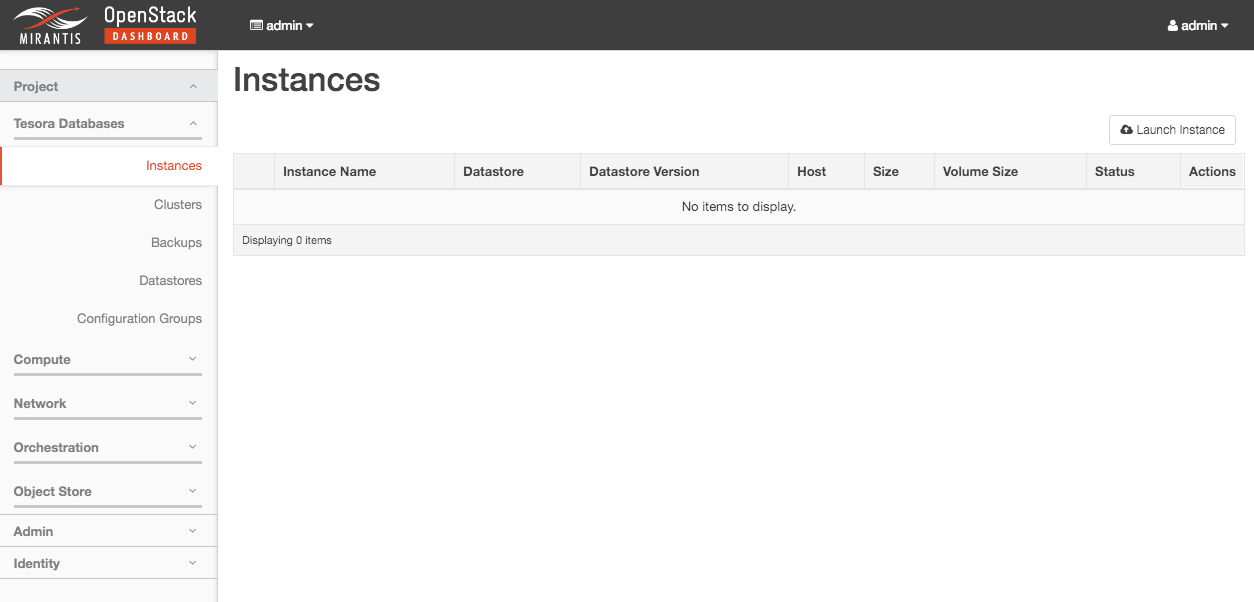
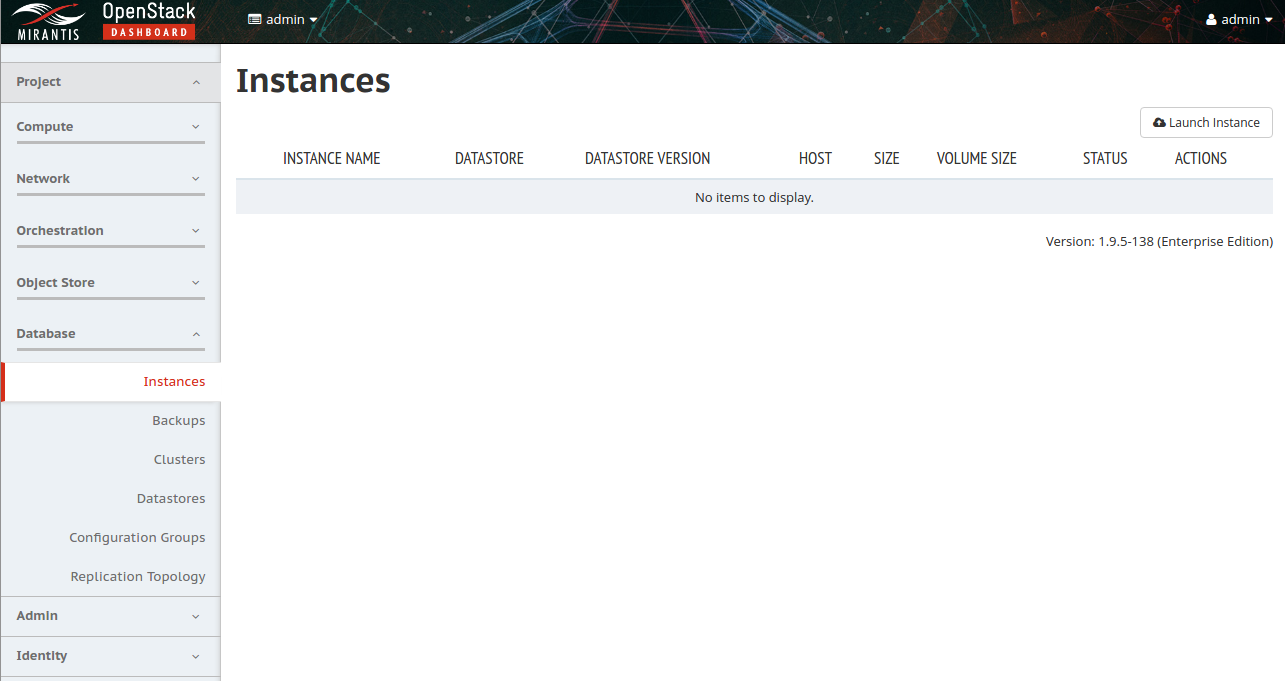
update user guide for 1.9.5
All the things for 1.9 user doc.
Update version numbers
Include new add-datastore.sh output
All new screenshots for fuel 9.0 and Tesora DBaaS

diff --git a/docs/guide/source/conf.py b/docs/guide/source/conf.py
@@ -55,9 +55,9 @@ copyright = u'2016, Tesora, Inc.'
 # built documents.
 #
 # The short X.Y version.
-version = '1.9.0'
+version = '1.9.5'
 # The full version, including alpha/beta/rc tags.
-release = '1.9-1.9.0-1'
+release = '1.9-1.9.5-1'
 
 # The language for content autogenerated by Sphinx. Refer to documentation
 # for a list of supported languages.

diff --git a/docs/guide/source/tesora-dbaas-guide.rst b/docs/guide/source/tesora-dbaas-guide.rst
@@ -1,5 +1,5 @@
 **********************************************************************
-Guide to the Tesora DBaaS Platform Plugin version 1.9-1.9.0-1 for Fuel
+Guide to the Tesora DBaaS Platform Plugin version 1.9-1.9.5-1 for Fuel
 **********************************************************************
 
 This document provides instructions for installing, configuring and using
@@ -34,7 +34,7 @@ Requirements
 ===============================  ===============
 Requirement                      Version/Comment
 ===============================  ===============
-Fuel                             8.0
+Fuel                             9.0
 ===============================  ===============
 
 Pre-requisites
@@ -66,21 +66,21 @@ To install the Tesora DBaaS Platform Fuel plugin, follow these steps:
 #. Copy the plugin to an already installed
    `Fuel Master node <http://docs.openstack.org/developer/fuel-docs/userdocs/fuel-install-guide/install_install_fuel.html>`_::
 
-   # scp fuel-plugin-tesora-dbaas-1.9-1.9.0-1.noarch.rpm root@:/\<fuel master node IP>:/tmp
+   # scp fuel-plugin-tesora-dbaas-1.9-1.9.5-1.noarch.rpm root@:/\<fuel master node IP>:/tmp
 
 #. Log into the Fuel Master node.
 
 #. Install the plugin::
 
      # cd /tmp
-     # fuel plugins --install fuel-plugin-tesora-dbaas-1.9-1.9.0-1.noarch.rpm
+     # fuel plugins --install fuel-plugin-tesora-dbaas-1.9-1.9.5-1.noarch.rpm
 
 #. Check if the plugin was installed successfully::
 
      # fuel plugins
      id | name                     | version | package_version
      ---|--------------------------|---------|----------------
-     1  | fuel-plugin-tesora-dbaas | 1.9.0   | 4.0.0
+     1  | fuel-plugin-tesora-dbaas | 1.9.5   | 4.0.0
 
 #. Create a new Fuel environment using the Fuel UI Wizard.
 
@@ -108,7 +108,7 @@ To install the Tesora DBaaS Platform Fuel plugin, follow these steps:
 #. Perform network validation on your new fuel environment.
 
 #. Deploy your Fuel environment containing the Tesora DBaaS Platform.
-   Once provisioned launch Horizon. You should see additional screens in Horizon for Tesora Databases:
+   Once provisioned launch Horizon. You should see additional screens in Horizon for Database:
 
    .. image:: figures/horizon-tesora.png
       :width: 75%
@@ -142,86 +142,93 @@ To install a datastore for say `mysql 5.6`, follow these steps:
    ::
 
      # ./add-datastore.sh mysql 5.6
-
-     Installing guest 'tesora-ubuntu-trusty-mysql-5.6-EE-1.9'
-
+     
+     Add datastore mysql 5.6 to Tesora DBaaS
+     
+     Selecting guest based on platform, command line args and environment variables:
+         Platform OS              ubuntu
+         Guest OS                 ubuntu
+         Tesora DBaaS Release     enterprise
+         Tesora DBaaS Version     1.9
+         Tesora DBaaS Repository  main
+     
+     Checking connectivity to Glance service
+     
+     Guest name determined as 'tesora-ubuntu-trusty-mysql-5.6-EE-1.9'
+     
+     
      Downloading guest 'tesora-ubuntu-trusty-mysql-5.6-EE-1.9.guest'
-     --2016-04-07 19:38:22--  ftp://enterprise19:*password*@ftp.tesora.com/main/ubuntu\
-     /tesora-ubuntu-trusty-mysql-5.6-EE-1.9.guest
-                => ‘/tmp/tmp.D8MAY4AlsW’
+     --2016-11-01 15:10:07--  ftp://enterprise19:*password*@ftp.tesora.com/main/ubuntu/tesora-ubuntu-trusty-mysql-5.6-EE-1.9.guest
+                => ‘/tmp/tmp.PwTR8Ov3Cs’
      Resolving ftp.tesora.com (ftp.tesora.com)... 199.182.122.232
      Connecting to ftp.tesora.com (ftp.tesora.com)|199.182.122.232|:21... connected.
      Logging in as enterprise19 ... Logged in!
      ==> SYST ... done.    ==> PWD ... done.
      ==> TYPE I ... done.  ==> CWD (1) /main/ubuntu ... done.
-     ==> SIZE tesora-ubuntu-trusty-mysql-5.6-EE-1.9.guest ... 510402560
-     ==> PASV ... done.    ==> RETR tesora-ubuntu-trusty-mysql-5.6-EE-1.9.guest ... \
-     done.
-     Length: 510402560 (487M) (unauthoritative)
-
-     100%[=============================================>] 510,402,560 4.14MB/s   in 98s
-
-     2016-04-07 19:40:00 (4.95 MB/s) - ‘/tmp/tmp.D8MAY4AlsW’ saved [510402560]
-
-     Moving guest '/tmp/tmp.D8MAY4AlsW' into guest cache
-     Uploading guest 'tesora-ubuntu-trusty-mysql-5.6-EE-1.9-86' to Glance
-     +---------------------------+------------------------------------------+
-     | Property                  | Value                                    |
-     +---------------------------+------------------------------------------+
-     | checksum                  | 1c3f5610863e30dd3d11deddd5be1eca         |
-     | container_format          | bare                                     |
-     | created_at                | 2016-04-07T19:40:05Z                     |
-     | disk_format               | qcow2                                    |
-     | id                        | dfff7c84-136e-4889-b772-e690c23c8686     |
-     | min_disk                  | 0                                        |
-     | min_ram                   | 0                                        |
-     | name                      | tesora-ubuntu-trusty-mysql-5.6-EE-1.9-86 |
-     | owner                     | 189b882e615b4ac998fc7fe7ddf25b79         |
-     | protected                 | False                                    |
-     | size                      | 510328832                                |
-     | status                    | active                                   |
-     | tags                      | []                                       |
-     | tesora-agent-build        | 130                                      |
-     | tesora-agent-full-version | 1.9.0                                    |
-     | tesora-agent-version      | 1.9                                      |
-     | tesora-database           | mysql                                    |
-     | tesora-database-version   | 5.6                                      |
-     | tesora-edition            | enterprise                               |
-     | tesora-edition-short      | EE                                       |
-     | tesora-guest-image-build  | 86                                       |
-     | tesora-os-distro          | ubuntu                                   |
-     | tesora-os-distro-version  | trusty                                   |
-     | tesora-repository         | main                                     |
-     | updated_at                | 2016-04-07T19:40:51Z                     |
-     | virtual_size              | None                                     |
-     | visibility                | public                                   |
-     +---------------------------+------------------------------------------+
-     Guest 'tesora-ubuntu-trusty-mysql-5.6-EE-1.9-86 uploaded to Glance with ID \
-     'dfff7c84-136e-4889-b772-e690c23c8686'
-
+     ==> SIZE tesora-ubuntu-trusty-mysql-5.6-EE-1.9.guest ... 502609920
+     ==> PASV ... done.    ==> RETR tesora-ubuntu-trusty-mysql-5.6-EE-1.9.guest ... done.
+     Length: 502609920 (479M) (unauthoritative)
+     
+     100%[======================================>] 502,609,920 16.9MB/s   in 27s    
+     
+     2016-11-01 15:10:34 (17.7 MB/s) - ‘/tmp/tmp.PwTR8Ov3Cs’ saved [502609920]
+     
+     
+     Moving guest '/tmp/tmp.PwTR8Ov3Cs' into guest cache
+     
+     Uploading guest 'tesora-ubuntu-trusty-mysql-5.6-EE-1.9-75' to Glance
+     [=============================>] 100%
+     +------------------------------+------------------------------------------+
+     | Property                     | Value                                    |
+     +------------------------------+------------------------------------------+
+     | checksum                     | b03598ecd8b0840c7794acae95b85471         |
+     | container_format             | bare                                     |
+     | created_at                   | 2016-11-01T15:10:31Z                     |
+     | disk_format                  | qcow2                                    |
+     | id                           | 68ceb1df-f65e-4806-a4a4-0df38445f479     |
+     | min_disk                     | 0                                        |
+     | min_ram                      | 0                                        |
+     | name                         | tesora-ubuntu-trusty-mysql-5.6-EE-1.9-75 |
+     | owner                        | 1274ced4337a4700a7b27a156c0a318b         |
+     | protected                    | False                                    |
+     | size                         | 502530048                                |
+     | status                       | active                                   |
+     | tags                         | []                                       |
+     | tesora-agent-build           | 137                                      |
+     | tesora-agent-full-version    | 1.9.5                                    |
+     | tesora-agent-version         | 1.9                                      |
+     | tesora-database              | mysql                                    |
+     | tesora-database-version      | 5.6                                      |
+     | tesora-database-version_long | 5.6.33                                   |
+     | tesora-edition               | enterprise                               |
+     | tesora-edition-short         | EE                                       |
+     | tesora-guest-image-build     | 75                                       |
+     | tesora-os-distro             | ubuntu                                   |
+     | tesora-os-distro-version     | trusty                                   |
+     | tesora-repository            | main                                     |
+     | updated_at                   | 2016-11-01T15:11:18Z                     |
+     | virtual_size                 | None                                     |
+     | visibility                   | public                                   |
+     +------------------------------+------------------------------------------+
+     
+     Guest 'tesora-ubuntu-trusty-mysql-5.6-EE-1.9-75 uploaded to Glance with ID '68ceb1df-f65e-4806-a4a4-0df38445f479'
+     
      Creating datastore 'mysql'
-     No handlers could be found for logger "oslo_config.cfg"
      Datastore 'mysql' updated.
-
-     Adding datastore version '5.6-86' to datastore 'mysql' with manager 'mysql'
-     No handlers could be found for logger "oslo_config.cfg"
-     Datastore version '5.6-86' updated.
-
-     Making '5.6-86' the default version for datastore 'mysql'
-     No handlers could be found for logger "oslo_config.cfg"
+     
+     Adding datastore version '5.6-75' to datastore 'mysql' with manager 'mysql'
+     Datastore version '5.6-75' updated.
+     
+     Making '5.6-75' the default version for datastore 'mysql'
      Datastore 'mysql' updated.
-
-     Loading validation rule file for datastore 'mysql' with version '5.6-86'.
-     No handlers could be found for logger "oslo_config.cfg"
-     Loading config parameters for datastore (mysql) version (5.6-86)
-
+     
+     Loading validation rule file '/usr/lib/python2.7/dist-packages/trove/templates/mysql/validation-rules.json'.
+     Loading config parameters for datastore (mysql) version (5.6-75)
+     
      Add datastore complete...
-
-     Guest image for mysql 5.6 uploaded to glance as:
-         Name: tesora-ubuntu-trusty-mysql-5.6-EE-1.9-86
-         ID:   dfff7c84-136e-4889-b772-e690c23c8686
-     mysql datastore created with version 5.6-86
-     Done.
+     
+     Guest image for 'mysql' '5.6' uploaded to glance as: tesora-ubuntu-trusty-mysql-5.6-EE-1.9-75
+     Datastore 'mysql' created with version '5.6-75'
 
 .. Note::
    If the download fails with a `Login incorrect` error then most likely the username or password entered in the setting screen were incorrect.
@@ -234,7 +241,7 @@ To view the installed and available datastores in horizon, follow these steps:
 
 #. Login to the Horizon console.
 
-#. Navigate to Project -> Tesora Databases -> Datastores.
+#. Navigate to Project -> Database -> Datastores.
 
 #. The table shows the installed and available datastores.
 
@@ -248,7 +255,7 @@ To create a database instance based off an available datastore, follow these ste
 
 #. Login to the Horizon console.
 
-#. Navigate to Project -> Tesora Database -> Instances.
+#. Navigate to Project -> Database -> Instances.
 
 #. Select the `Launch Instance` button.
 
